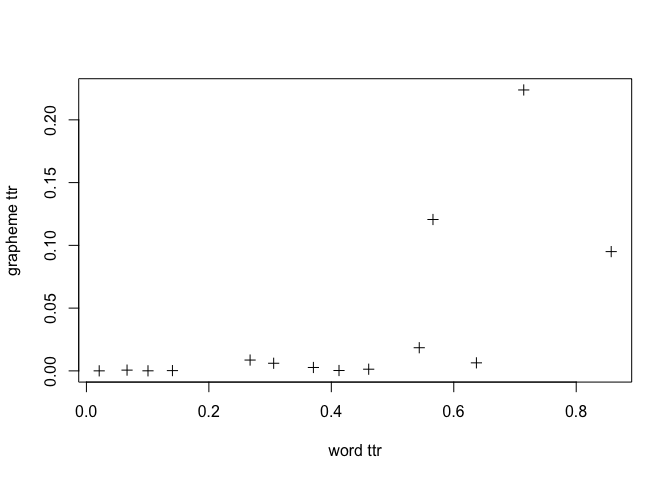
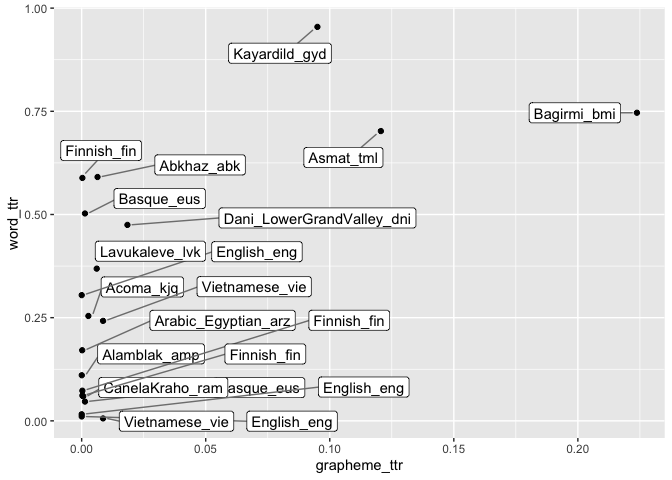
update file path

diff --git a/Reports/ttr/words_vs_graphemes_ttr.md b/Reports/ttr/words_vs_graphemes_ttr.md
@@ -1,30 +1,28 @@
 Words vs graphemes TTR in 100LC
 ================
 Steven Moran
-17 July, 2020
+23 August, 2020
 
-``` r
-words.ttr <- read.csv('words_ttr.csv')
-w.cut <- words.ttr %>% select(name, ttr) %>% rename(word_ttr=ttr)
-graphemes.ttr <- read.csv('graphemes_ttr.csv')
-g.cut <- graphemes.ttr %>% select(name, ttr) %>% rename(grapheme_ttr=ttr)
-```
+    words.ttr <- read.csv('word_ttr.csv')
+    w.cut <- words.ttr %>% select(name, ttr) %>% rename(word_ttr=ttr)
+    graphemes.ttr <- read.csv('graphemes_ttr.csv')
+    g.cut <- graphemes.ttr %>% select(name, ttr) %>% rename(grapheme_ttr=ttr)
 
-``` r
-ttr <- left_join(w.cut, g.cut)
-```
+    ttr <- left_join(w.cut, g.cut)
 
     ## Joining, by = "name"
 
-``` r
-plot(ttr$word_ttr, ttr$grapheme_ttr, xlab="word ttr", ylab="grapheme ttr", pch=3)
-```
+    library(ggplot2)
+    library(ggrepel)
+    ggplot(ttr, aes(x=grapheme_ttr, y=word_ttr, label=name)) + 
+      geom_point() +
+      geom_label_repel(aes(label = name),
+                      box.padding   = 0.35, 
+                      point.padding = 0.5,
+                      segment.color = 'grey50')
+
+    ## Warning: Removed 108 rows containing missing values (geom_point).
+
+    ## Warning: Removed 108 rows containing missing values (geom_label_repel).
 
 ![](words_vs_graphemes_ttr_files/figure-gfm/unnamed-chunk-4-1.png)<!-- -->
-
-``` r
-library(ggplot2)
-qplot(word_ttr, grapheme_ttr, data=ttr)
-```
-
-![](words_vs_graphemes_ttr_files/figure-gfm/unnamed-chunk-5-1.png)<!-- -->
